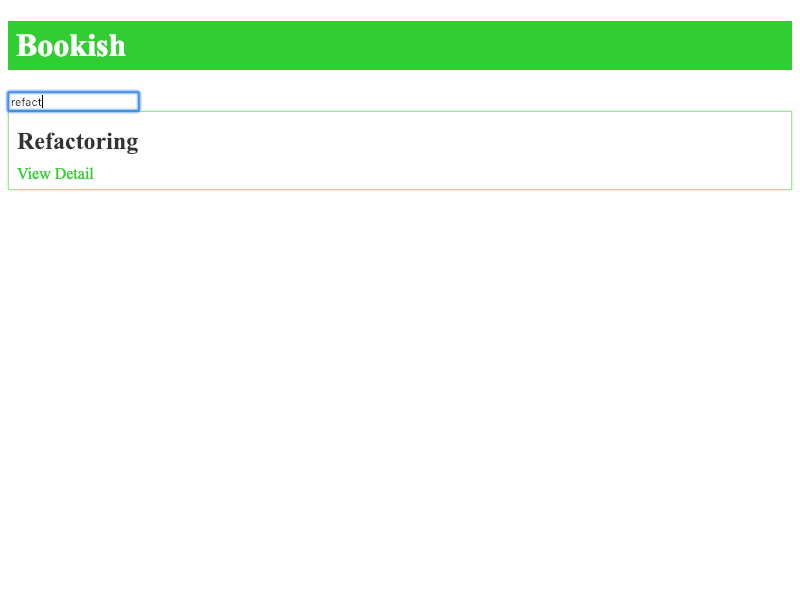
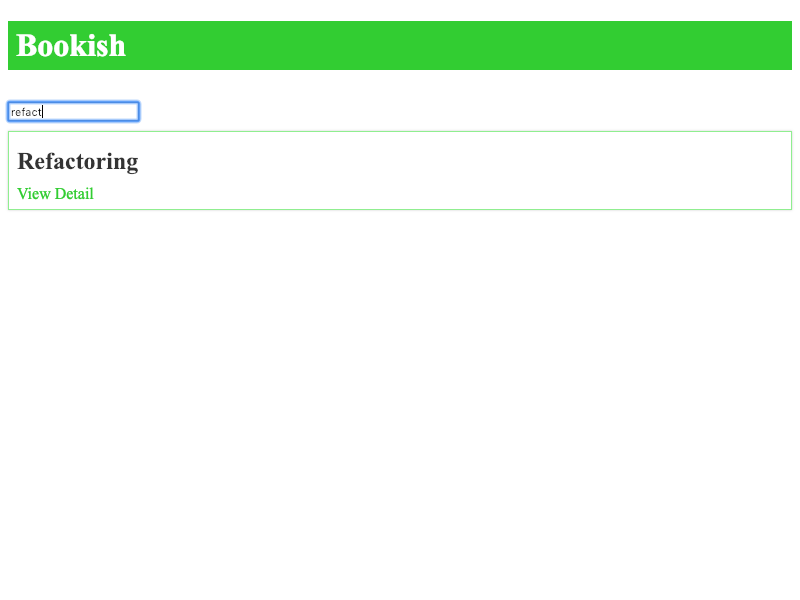
add book review style

Changed region(s): [[0.0, 0.15, 0.1875, 0.33]]

diff --git a/src/components/BookDetail/index.js b/src/components/BookDetail/index.js
@@ -27,31 +27,44 @@ class BookDetail extends Component {
     })
   }
 
+  renderReviewList = () => {
+    const { book } = this.props
+    if (book.reviews) {
+      return <ReviewList reviews={book.reviews} />
+    }
+  }
+
+  renderReviewForm = () => {
+    return (
+      <form>
+        <input
+          type="text"
+          name="name"
+          onChange={this.updateName}
+          value={this.state.name}
+        />
+        <textarea
+          name="content"
+          cols="30"
+          rows="10"
+          onChange={this.updateContent}
+          value={this.state.content}
+        />
+        <button name="submit" onClick={this.saveReview}>
+          Submit
+        </button>
+      </form>
+    )
+  }
+
   render() {
     const { book } = this.props
     return (
       <div className="datail">
         <div className="name">{book.name}</div>
         <div className="description">{book.description || book.name}</div>
-        <form>
-          <input
-            type="text"
-            name="name"
-            onChange={this.updateName}
-            value={this.state.name}
-          />
-          <textarea
-            name="content"
-            cols="30"
-            rows="10"
-            onChange={this.updateContent}
-            value={this.state.content}
-          />
-          <button name="submit" onClick={this.saveReview}>
-            Submit
-          </button>
-        </form>
-        {book.reviews && <ReviewList reviews={book.reviews} />}
+        {this.renderReviewForm()}
+        {this.renderReviewList()}
       </div>
     )
   }

diff --git a/src/components/BookDetail/index.css b/src/components/BookDetail/index.css
@@ -14,3 +14,29 @@ h2 {
   color: limegreen;
   text-decoration: none;
 }
+
+.name {
+  font-weight: bold;
+  font-size: 40px;
+}
+
+input[name="name"], textarea[name="content"] {
+  width: 300px;
+  display: block;
+  margin: 10px 0;
+}
+
+input[name="name"] {
+  line-height: 20px;
+}
+
+button[name="submit"] {
+  background: limegreen;
+  border-radius: 0;
+  color: white;
+  border: none;
+  width: 200px;
+  height: 40px;
+  font-weight: bold;
+  font-size: 20px;
+}

diff --git a/src/e2e/e2e.test.js b/src/e2e/e2e.test.js
@@ -3,7 +3,6 @@ import axios from 'axios'
 
 import BookListPage from './pages/BookListPage'
 import BookDetailPage from './pages/BookDetailPage'
-import { resolve } from 'dns'
 
 const appUrlBase = 'http://localhost:3000'
 

diff --git a/src/components/SearchBox/index.js b/src/components/SearchBox/index.js
@@ -1,4 +1,5 @@
 import React from 'react'
+import './index.css'
 
 function SearchBox({ onChange, term }) {
   return (

diff --git a/src/components/ReviewList/index.js b/src/components/ReviewList/index.js
@@ -1,4 +1,5 @@
 import React from 'react'
+import './index.css'
 
 export default (props) => {
   return (

diff --git a/src/components/ReviewList/index.css b/src/components/ReviewList/index.css
@@ -1,0 +1,3 @@
+.review {
+  display: list-item
+}

diff --git a/src/components/SearchBox/index.css b/src/components/SearchBox/index.css
@@ -1,0 +1,3 @@
+.search {
+  margin: 10px 0;
+}
